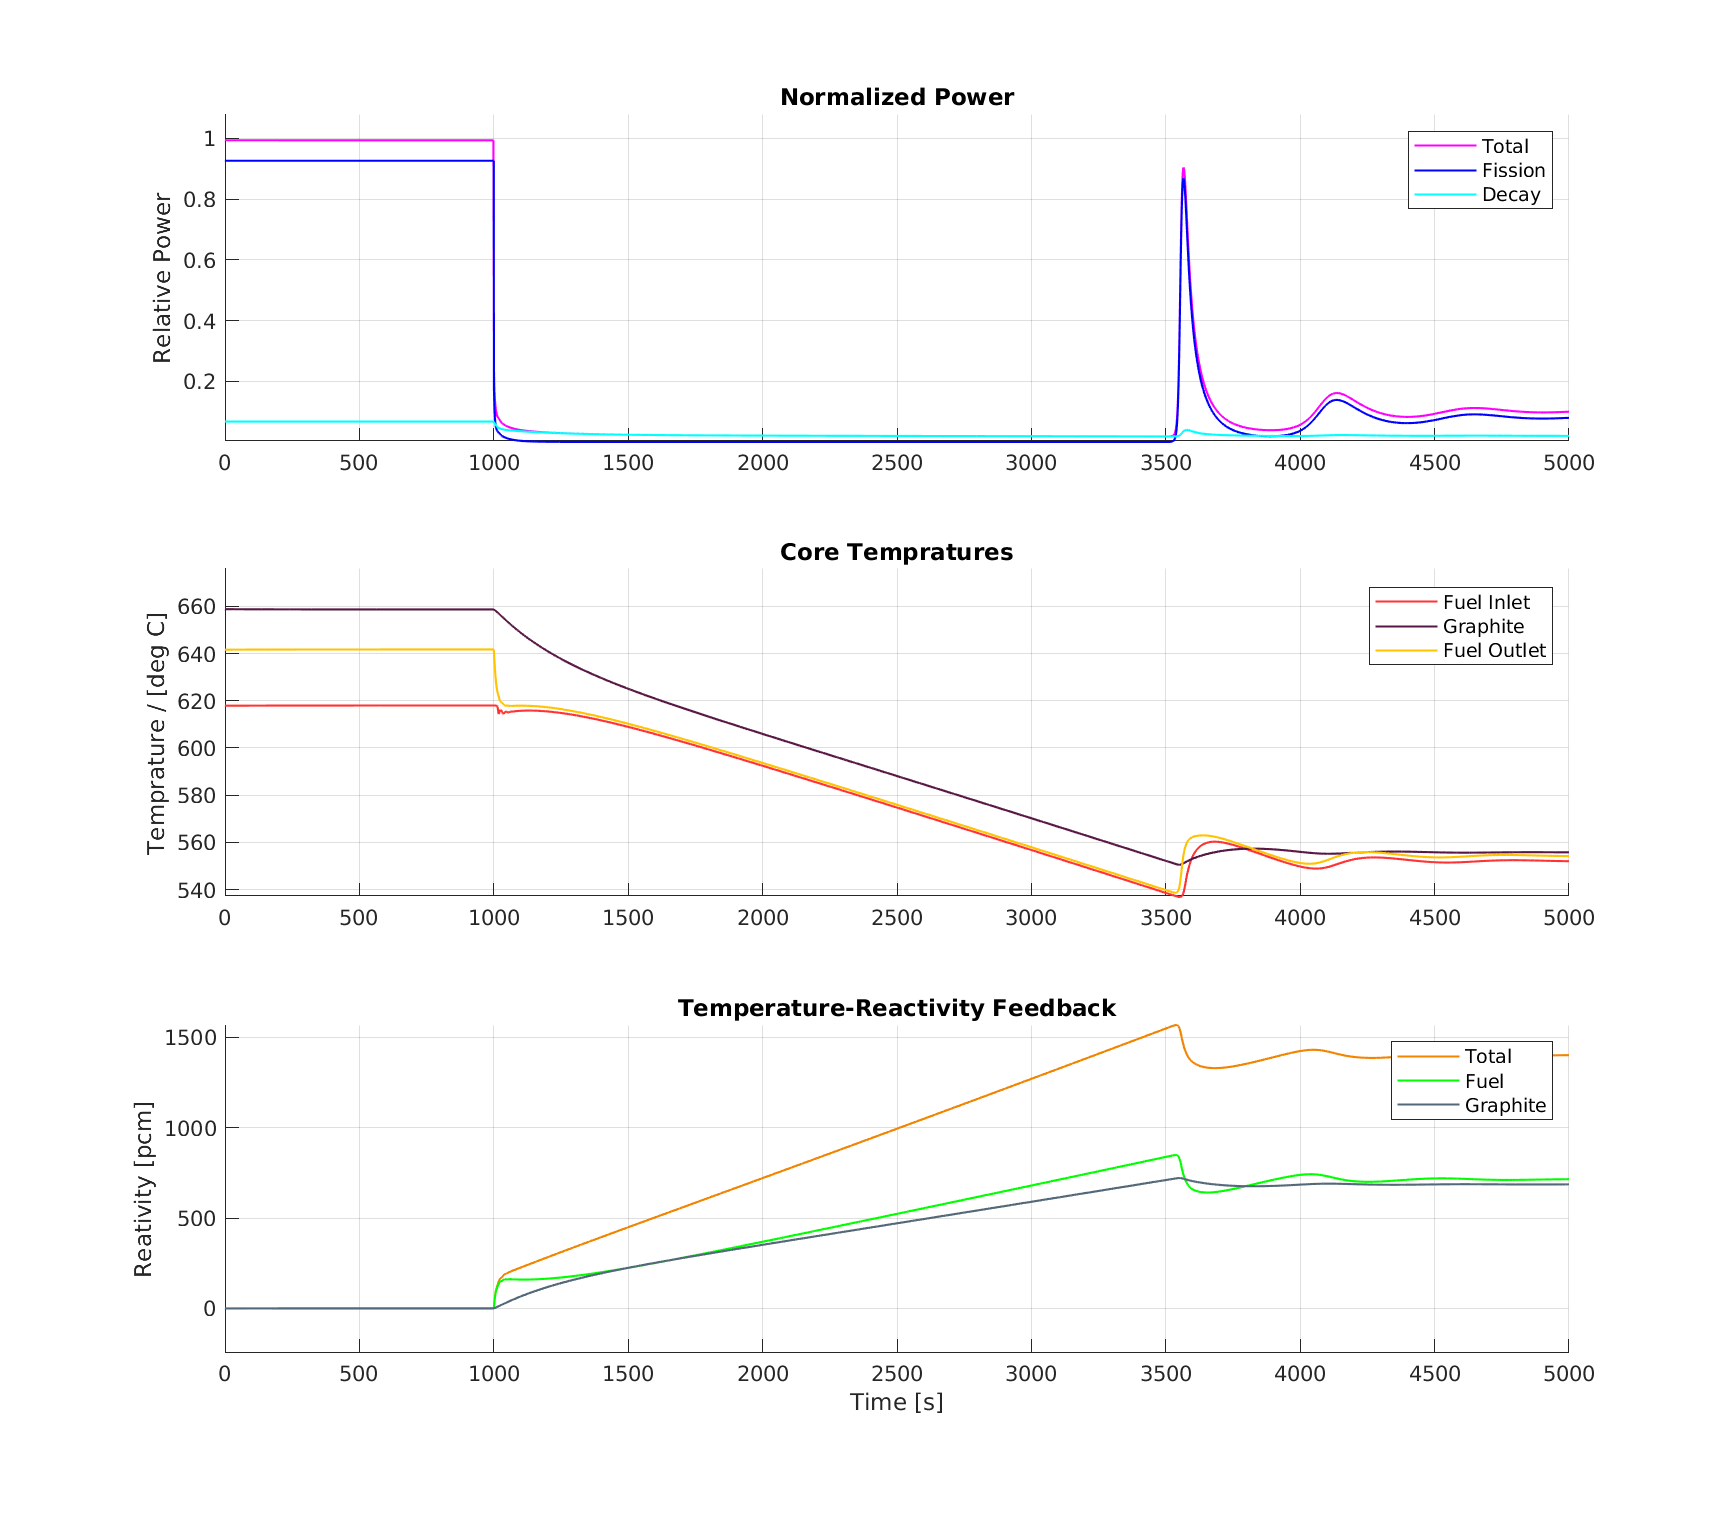
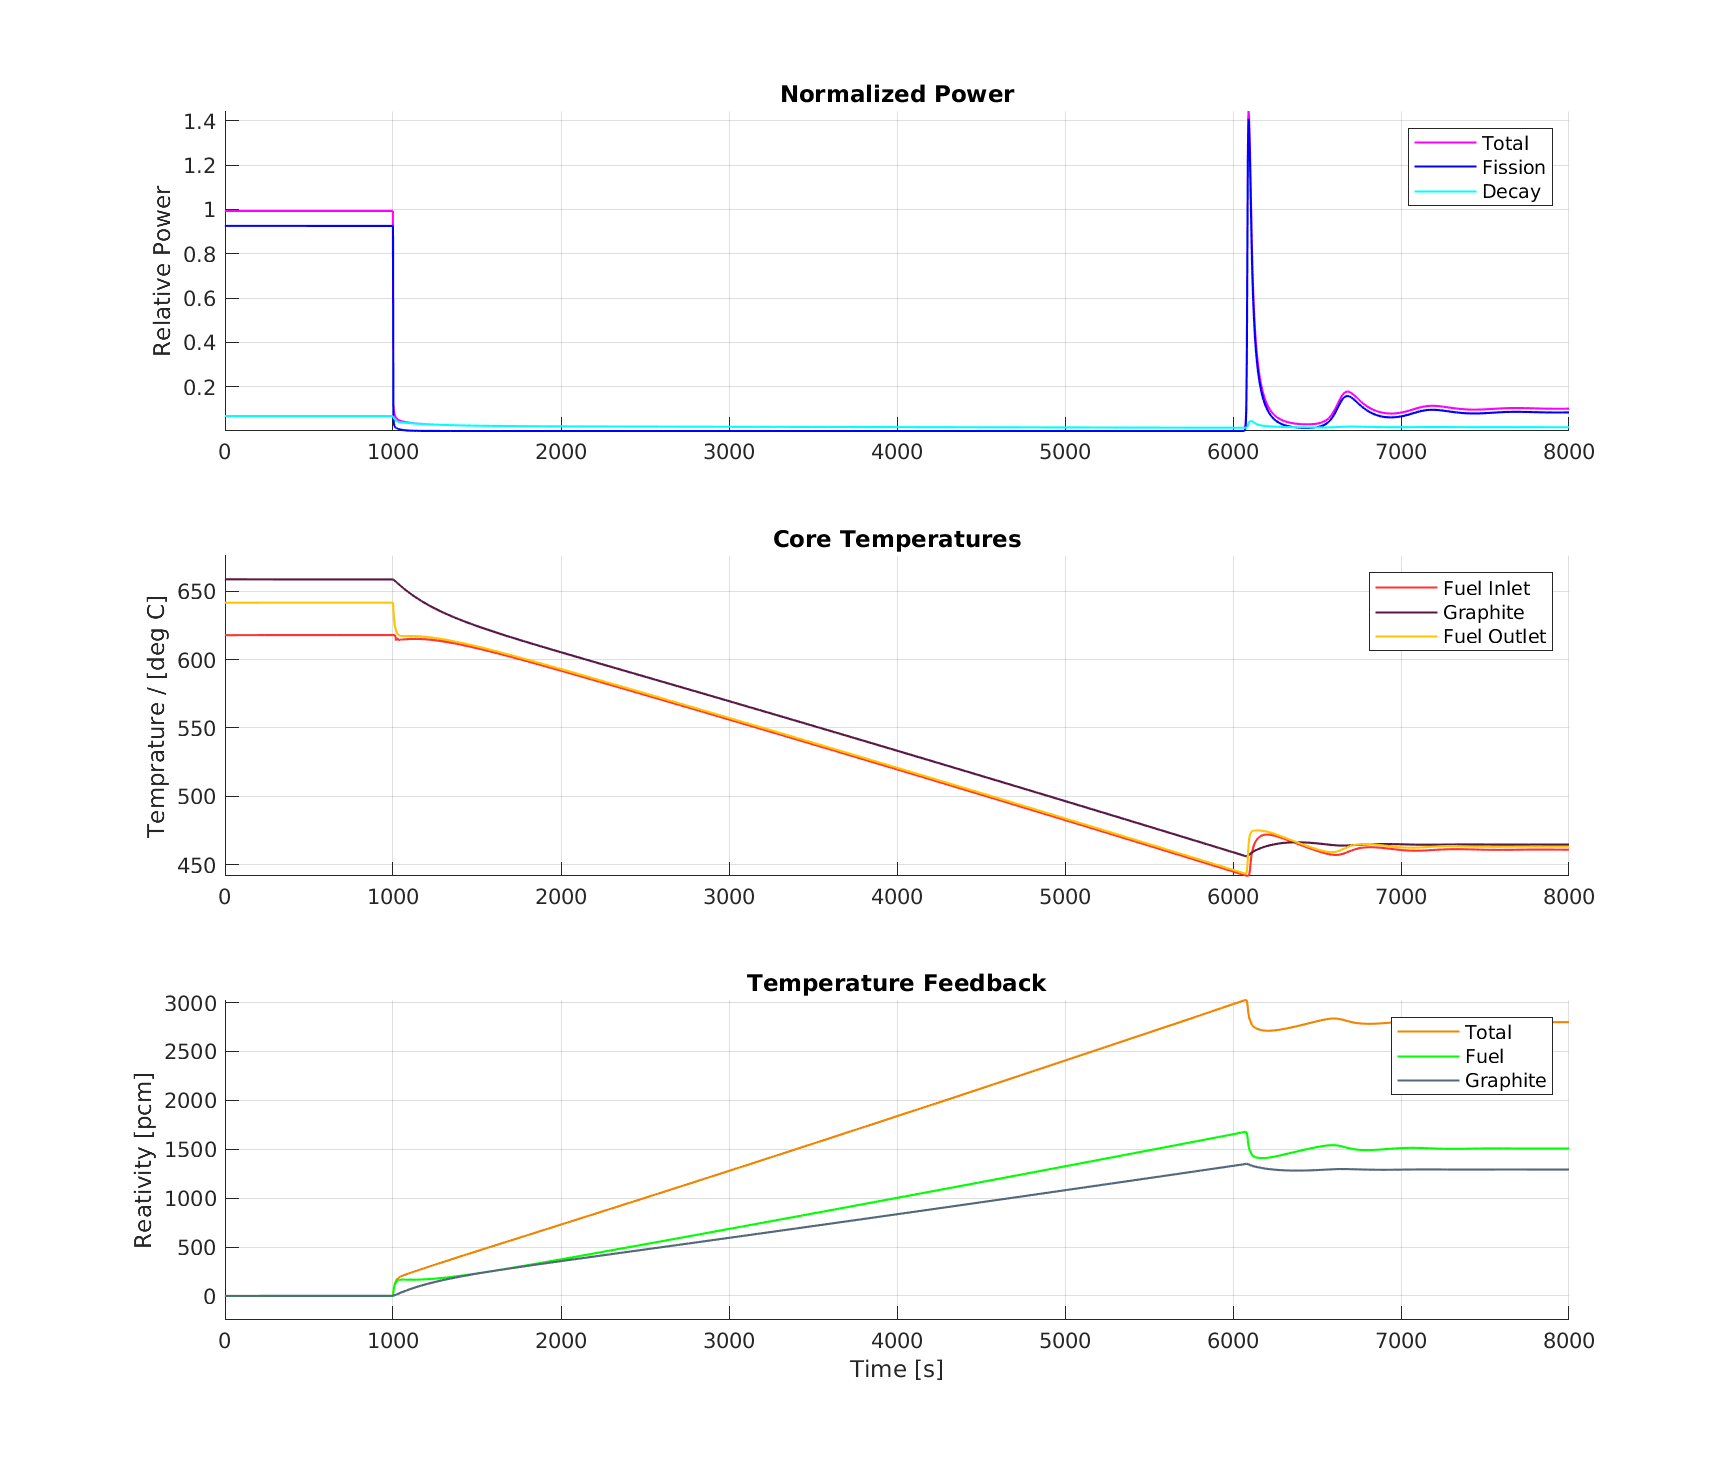
updated figures

diff --git a/Transients/Final_transient_2.m b/Transients/Final_transient_2.m
@@ -17,7 +17,7 @@
 %% User Inputs
 
 %%% Basic Simulation Parameters
-simtime = 6000;                                                            %Simulation time [s]
+simtime = 9000;                                                            %Simulation time [s]
 ts_max = 1e-2;                                                             %Maximum timestep [s] 
 P=8;                                                                       %Operational thermal power [MW]
 
@@ -31,7 +31,7 @@ sourcedata = [0 0 0];                                                      %Neut
 sourcetime = [0 1000 2500];                                                %Neutron source insertion time [s]
 source = timeseries(sourcedata,sourcetime);                                %Defining source timeseries  
 
-reactdata = [0 -0.014 -0.014 -0.014 -0.014 -0.014];                        %Reactivity insertions [abs]
+reactdata = [0 -0.028 -0.028 -0.028 -0.028 -0.028];                        %Reactivity insertions [abs]
 reacttime = [0 2000 2000 5000 7500 15000];                                 %Reactivity insertion time [s]
 react = timeseries(reactdata,reacttime);                                   %Defining source timeseries
 
@@ -73,8 +73,8 @@ deltaTf_DHRS = 30;                                                         %Temp
 slug_time = 8.46;                                                          %Duration of slug [s]
 
 
-run('SMD_MSR_Para_V1.slx')
-sim('MSD_MSR_Sim_V1.slx');
+run('SMD_MSR_Para_V1')
+sim('SMD_MSR_Sim_V1.slx');
 
 %% Plotting Results 
 %Create time offsets and find time = 0 index for other offsets
@@ -144,5 +144,5 @@ height=1050;
 set(gcf,'position',[x0,y0,width,height])
 
 % Save plot as fig and png
-saveas(gcf,'Transient_2_last.png')
-savefig('Transient_2_last.fig')
+saveas(gcf,'Transient_2.png')
+savefig('Transient_2.fig')

diff --git a/Transients/Final_transient_4.m b/Transients/Final_transient_4.m
@@ -73,9 +73,9 @@ Power_Bleed = P*(0.001);                                                    %Som
 deltaTf_DHRS = 30;                                                         %Temperature drop by broken DHRS [deg. C]
 slug_time = 8.46;                                                          %Duration of slug [s]
 
-% 
-run('SMD_MSR_Para_V1.slx')
-sim('MSD_MSR_Sim_V1.slx');
+
+run('SMD_MSR_Para_V1')
+sim('SMD_MSR_Sim_V1.slx');
 
 %% Plotting Results 
 %Create time offsets and find time = 0 index for other offsets

diff --git a/Transients/Final_transient_1.m b/Transients/Final_transient_1.m
@@ -72,8 +72,8 @@ deltaTf_DHRS = 30;                                                         %Temp
 slug_time = 8.46;                                                          %Duration of slug [s]
 
 
-run('SMD_MSR_Para_V1.slx')
-sim('MSD_MSR_Sim_V1.slx');
+run('SMD_MSR_Para_V1')
+sim('SMD_MSR_Sim_V1.slx');
 
 %% Plotting Results 
 %Create time offsets and find time = 0 index for other offsets

diff --git a/Transients/Final_transient_3.m b/Transients/Final_transient_3.m
@@ -72,8 +72,8 @@ deltaTf_DHRS = 30;                                                         %Temp
 slug_time = 8.46;                                                          %Duration of slug [s]
 
 
-run('SMD_MSR_Para_V1.slx')
-sim('MSD_MSR_Sim_V1.slx');
+run('SMD_MSR_Para_V1')
+sim('SMD_MSR_Sim_V1.slx');
 
 %% Plotting Results 
 %Create time offsets and find time = 0 index for other offsets
